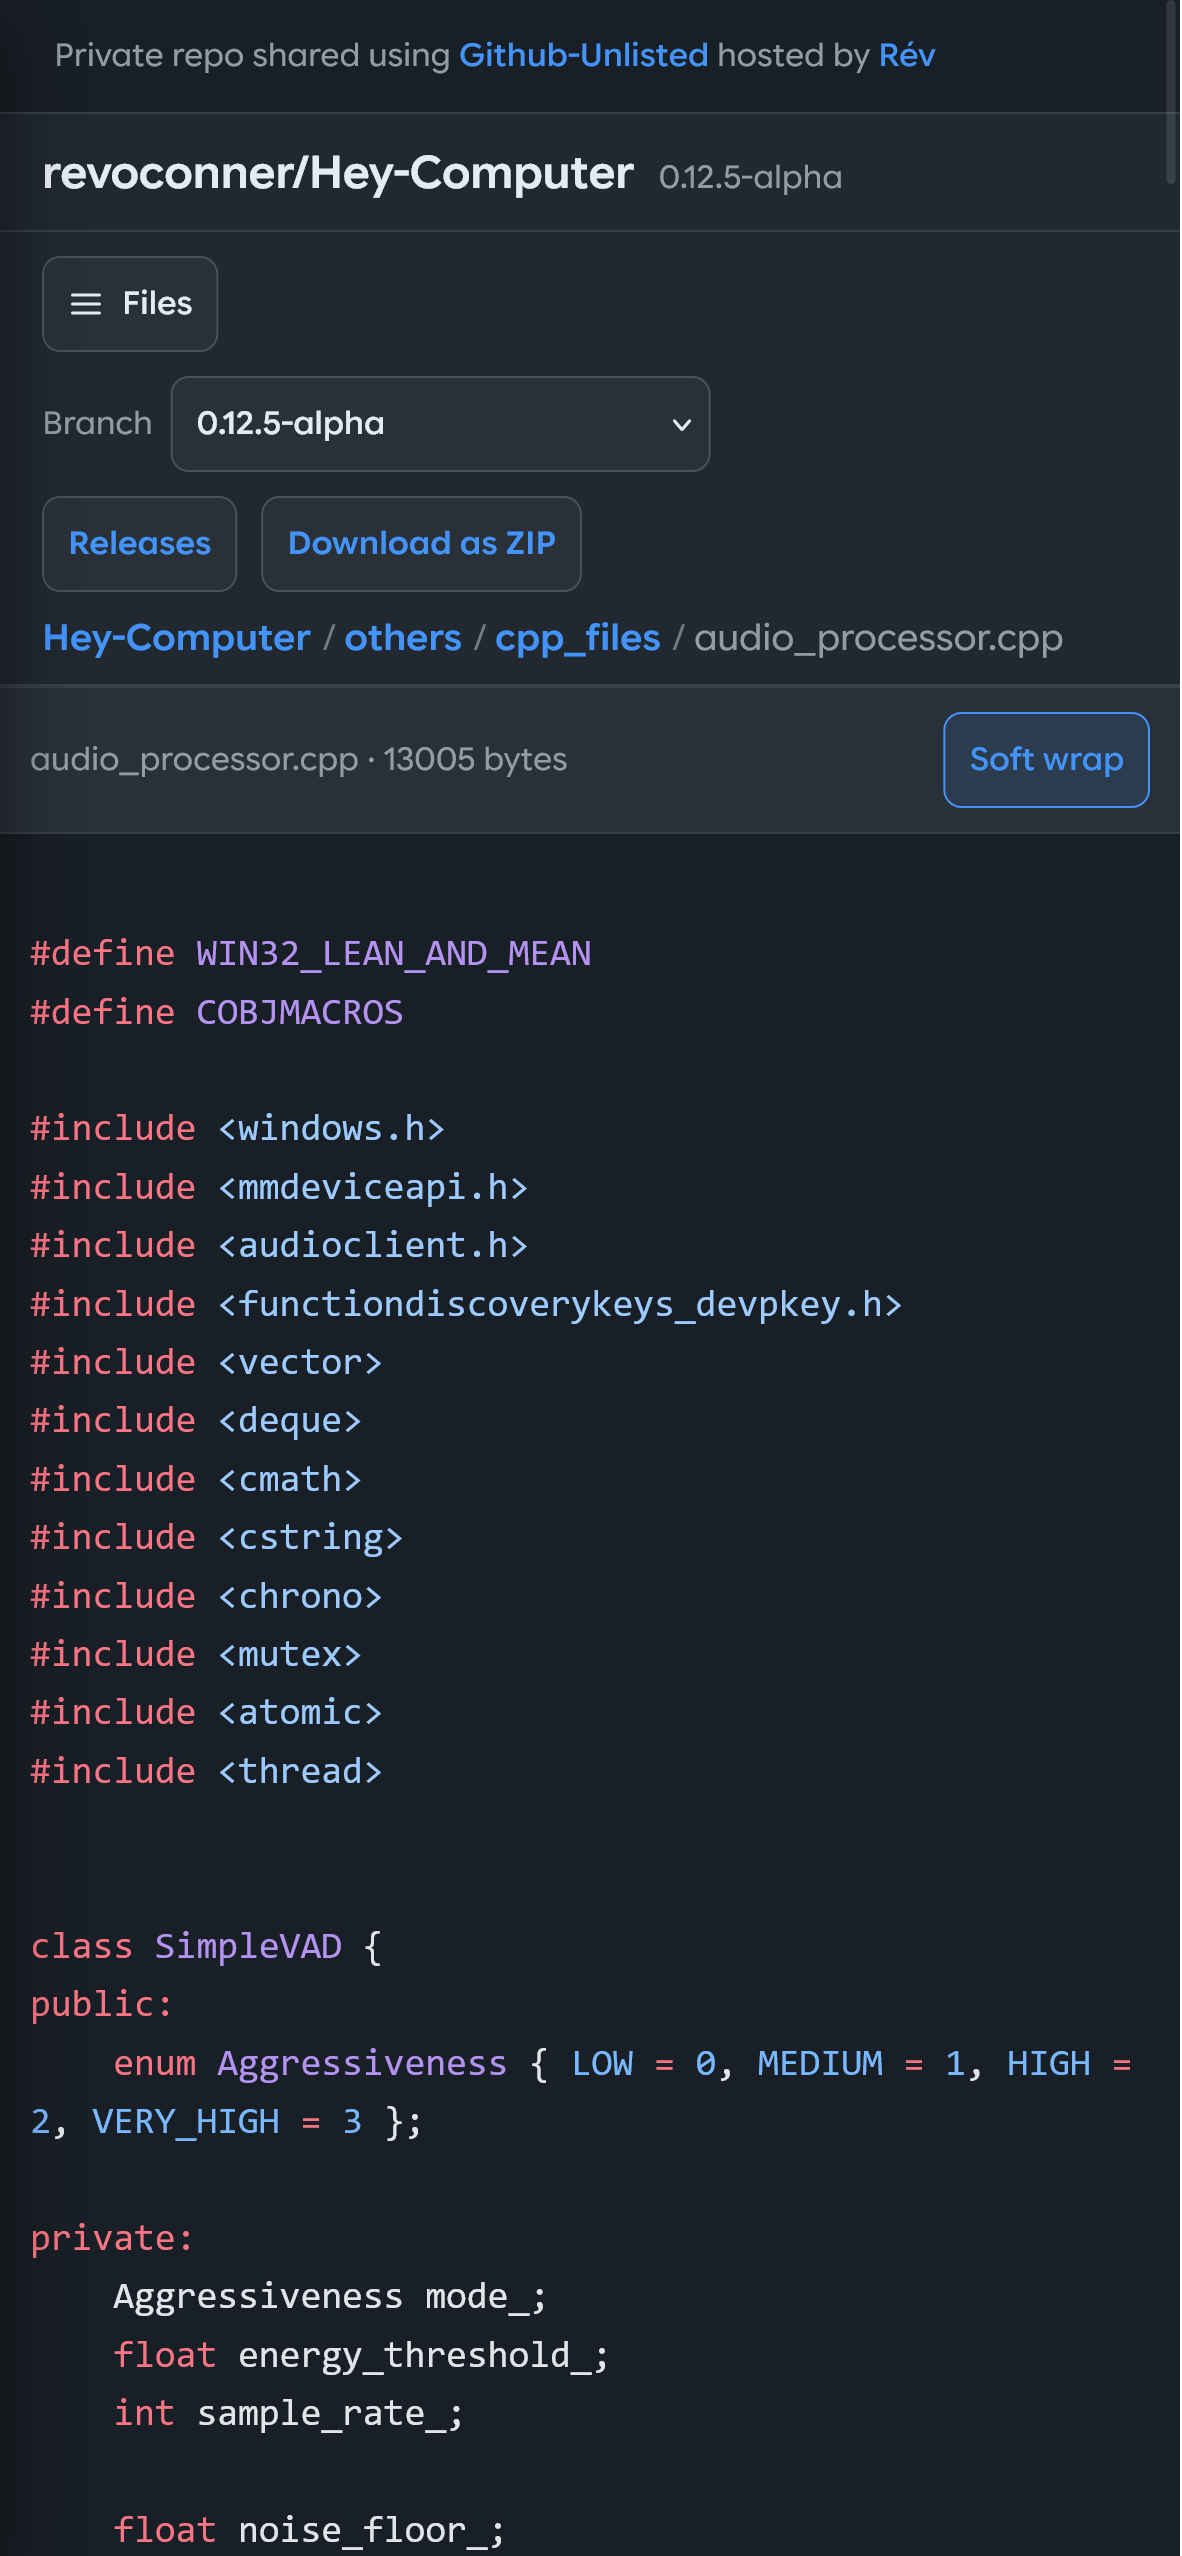
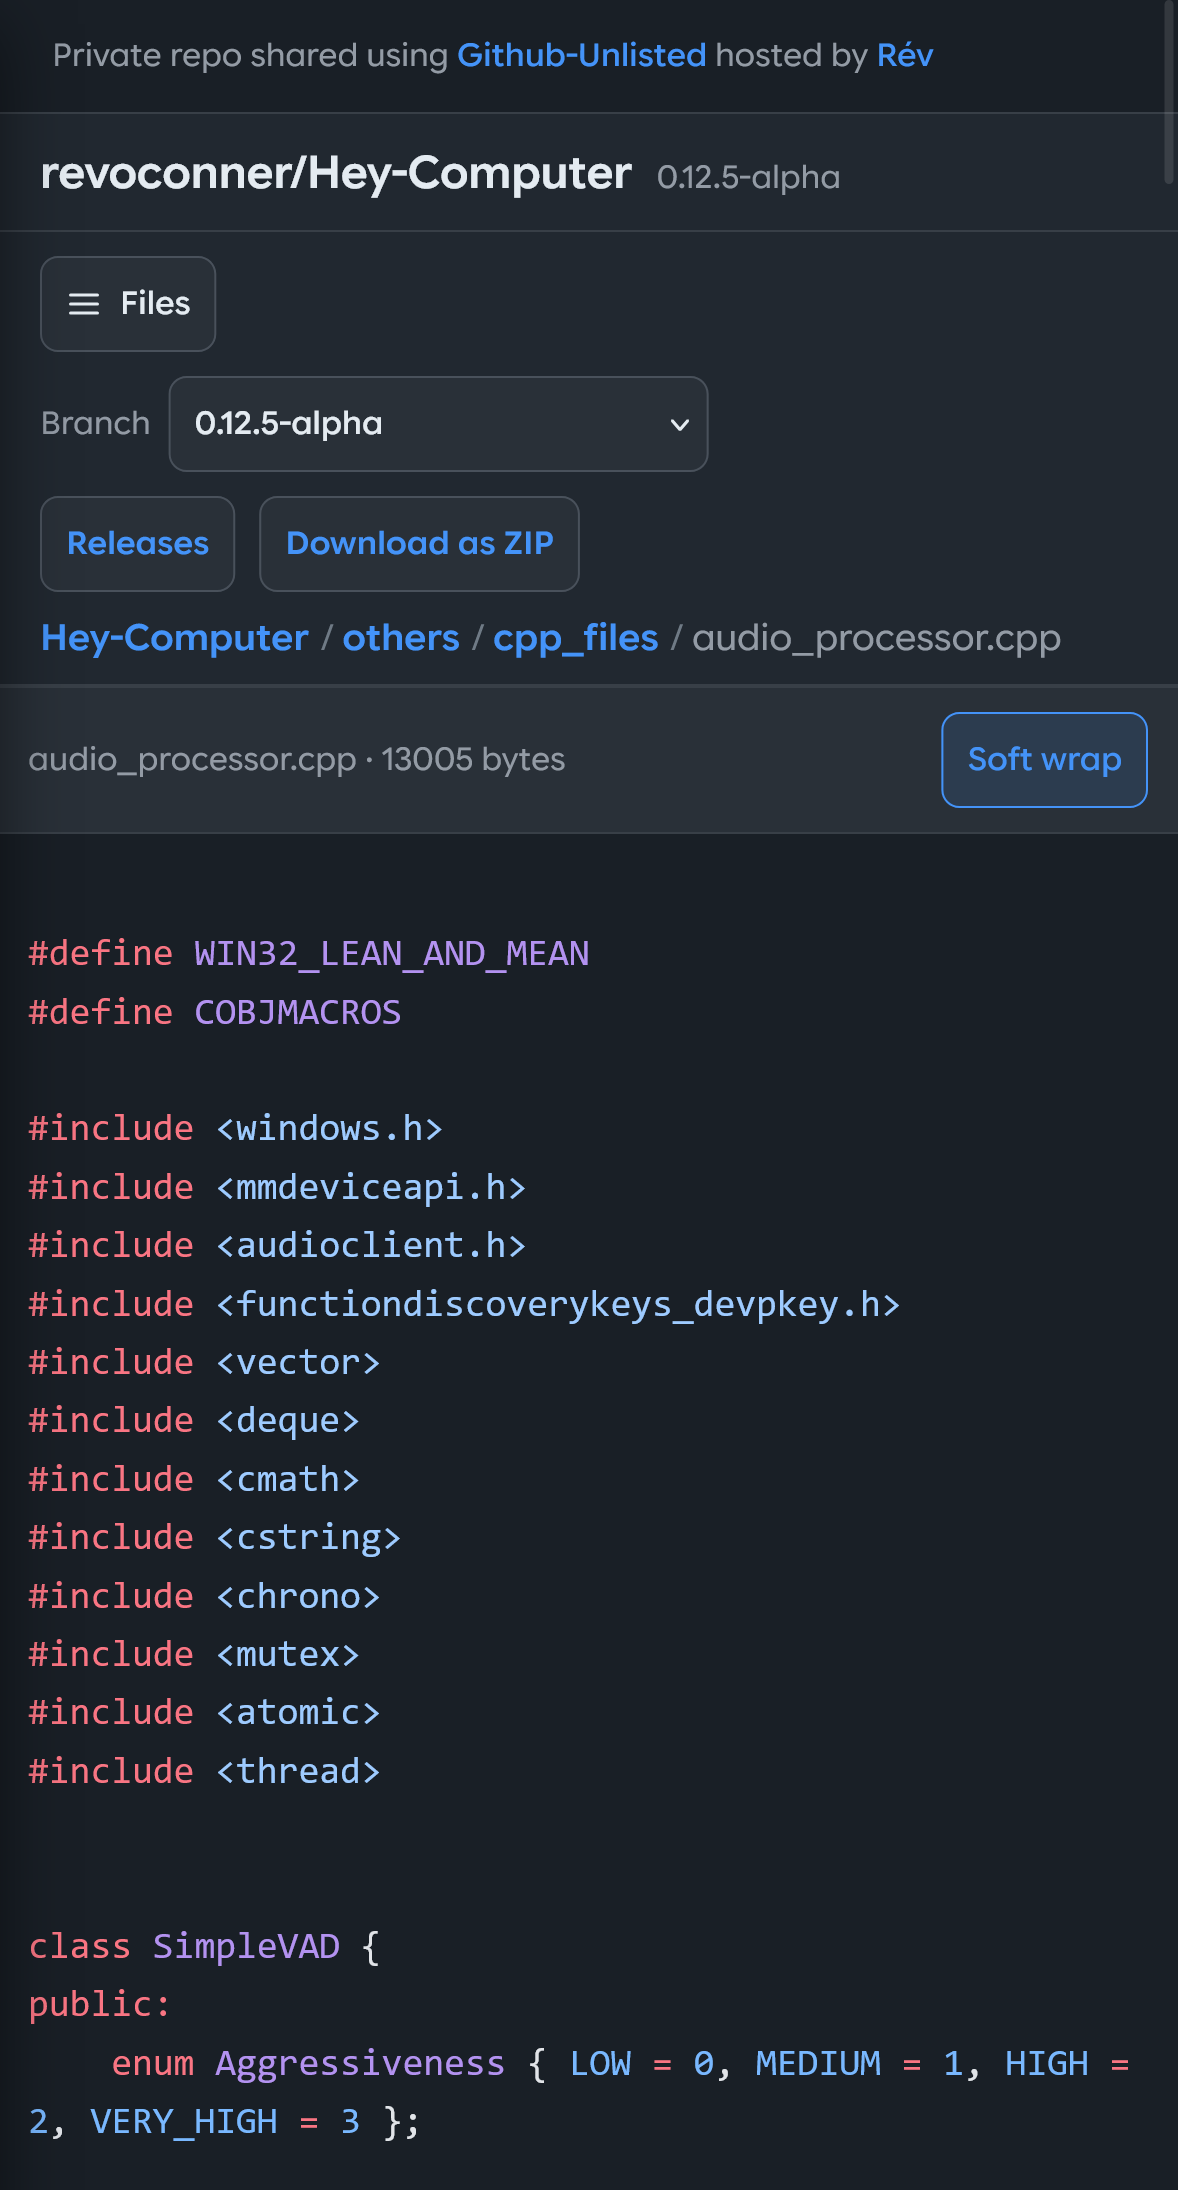
crazy font weight solution

diff --git a/src/styles/global.css b/src/styles/global.css
@@ -58,11 +58,11 @@
 	   and the hierarchy holds at every width. */
 	--fs-display: clamp(36px, 2.875vw + 22.2px, 59px);
 	--fs-h1: clamp(26px, 1.25vw + 20px, 36px);
-	--fs-h2: clamp(20px, 0.75vw + 16.4px, 26px);
-	--fs-h3: clamp(15px, 0.625vw + 12px, 20px);
-	--fs-body: clamp(14px, 0.625vw + 11px, 19px);
+	--fs-h2: clamp(22px, 0.75vw + 16.4px, 28px);
+	--fs-h3: clamp(18.5px, 0.625vw + 12px, 22px);
+	--fs-body: clamp(16px, 0.625vw + 11px, 19px);
 	--fs-ui: clamp(12px, 0.375vw + 10.2px, 15px);
-	--fs-caption: clamp(10.5px, 0.3125vw + 9px, 13px);
+	--fs-caption: clamp(12px, 0.3125vw + 9px, 13px);
 	--fs-btn: clamp(12px, 0.375vw + 10.2px, 15px);
 
 	/* Frosted chrome backdrop shared by the nav + footer. */
@@ -257,9 +257,9 @@ main {
 }
 .nav-links a,
 .nav-links .nav-contact {
-padding: 0.5rem 0rem;
-/* box-shadow: inset 0 0 1px 1px hsl(from var(--text-muted) h s l / 0.4); */
-background: var(--surface-2);
+	padding: 0.5rem 0rem;
+	/* box-shadow: inset 0 0 1px 1px hsl(from var(--text-muted) h s l / 0.4); */
+	background: var(--surface-2);
 	border-radius: 999px;
 	color: var(--text-2);
 	text-align: center;
@@ -544,7 +544,7 @@ background: var(--surface-2);
 	padding: 2px 8px;
 	border-radius: 5px;
 	font-family: var(--font-mono);
-	font-size: .75rem;
+	font-size: 0.75rem;
 	font-weight: 500;
 	white-space: nowrap;
 	border: 1px solid transparent;
@@ -748,7 +748,7 @@ background: var(--surface-2);
 	flex: 1;
 	display: grid;
 	place-items: center;
-	padding: clamp(22px, 4.75vw - 0.8px, 60px);
+	padding: clamp(22px, 4.75vw - 0.8px, 60px) clamp(10px, 4.5vw + 10.2px, 60px);
 	position: relative;
 	z-index: 2;
 	background: transparent;
@@ -759,12 +759,20 @@ background: var(--surface-2);
 }
 
 .hero__title {
+	/* Fluid variable-font weight: 440 at a 460px viewport up to 660 at
+	   1280px, linear in between (slope 220/820 per px). tan(atan2()) turns
+	   the viewport width into a unitless number so it can feed
+	   font-weight; the direct calc(100vw / 1px) division needs Chrome
+	   140 / Safari 18.2 typed arithmetic and Firefox lacks it, which
+	   left the whole declaration invalid and the weight at 400. */
+	--vw-n: tan(atan2(100vw, 1px));
+	--fluid-weight: calc(316.59 + 0.26829 * var(--vw-n));
+	font-weight: clamp(500, var(--fluid-weight), 660);
 	margin: 0;
 	font-family: var(--font-sans);
-	font-weight: 400;
 	font-size: var(--fs-display);
 	line-height: 1.05;
-	letter-spacing: 10.2px;
+	letter-spacing: clamp(0.325rem, calc(0.126rem + 0.662vw), 0.656rem);
 	color: var(--text);
 	text-wrap: balance;
 	text-shadow: var(--shadow-hero);
@@ -777,8 +785,32 @@ background: var(--surface-2);
 	font-size: var(--fs-body);
 	line-height: 1.6;
 	color: var(--text-muted);
-	text-wrap:  balance;
+	text-wrap: balance;
 	max-width: 920px;
+}
+
+/* Hero screenshot between the sub text and the CTA. One <picture>: the
+   phone capture serves at 480px and below, the desktop capture above.
+   Sizing stays fluid over the same 480-1280 window as everything else;
+   the 480px query only swaps the source and narrows the frame to suit
+   the portrait image. */
+.hero__shot {
+	display: block;
+	margin: clamp(24px, 2vw + 27.4px, 65px) auto;
+	width: 100%;
+	max-width: min(70vw, 1280px);
+}
+.hero__shot img {
+	width: 100%;
+	height: auto;
+	border: 1px solid var(--border);
+	border-radius: var(--radius-md);
+	box-shadow: var(--shadow-hero);
+}
+@media (max-width: 760px) {
+	.hero__shot {
+		max-width: min(300px, 65vw);
+	}
 }
 
 .bracket-word {
@@ -802,7 +834,6 @@ background: var(--surface-2);
 	flex-direction: column;
 	align-items: center;
 	gap: 14px;
-	padding: 0 0 clamp(40px, 3.75vw + 22px, 70px);
 }
 .hero-cta__row {
 	display: flex;
@@ -832,8 +863,6 @@ background: var(--surface-2);
 	width: 100%;
 	max-width: 880px;
 }
-
-
 
 .faq-title {
 	margin: 0 0 14px;
@@ -875,7 +904,7 @@ background: var(--surface-2);
 	width: 100%;
 	padding: 28px 8px;
 	display: grid;
-	grid-template-columns: .9fr .1fr;
+	grid-template-columns: 0.9fr 0.1fr;
 	align-items: center;
 	gap: 16px;
 	background: transparent;
@@ -884,8 +913,6 @@ background: var(--surface-2);
 	color: var(--text);
 	cursor: pointer;
 }
-
-
 
 .faq-q__text {
 	font-size: var(--fs-h2);
@@ -898,17 +925,20 @@ background: var(--surface-2);
 }
 
 .faq-q__icon {
-  width: 26px;
-  height: 26px;
-  border-radius: var(--radius-pill);
-  border: 1px solid var(--accent);
-  color: var(--bg);
-  display: inline-flex;
-  align-items: center;
-  justify-content: center;
-  justify-self: end;
-  transition: color 0.25s ease, background 0.25s ease, transform 0.25s ease;
-  background: var(--accent);
+	width: 26px;
+	height: 26px;
+	border-radius: var(--radius-pill);
+	border: 1px solid var(--accent);
+	color: var(--bg);
+	display: inline-flex;
+	align-items: center;
+	justify-content: center;
+	justify-self: end;
+	transition:
+		color 0.25s ease,
+		background 0.25s ease,
+		transform 0.25s ease;
+	background: var(--accent);
 }
 .faq-q__icon svg {
 	width: 12px;
@@ -940,15 +970,15 @@ background: var(--surface-2);
 	overflow: hidden;
 }
 .faq-a__body {
-  padding-left: 54px;
-  padding-right: 50px;
-  padding-bottom: 0;
-  color: var(--text-muted);
-  font-size: var(--fs-body);
-  line-height: 1.6;
-  text-wrap: balance;
-  transition: padding-bottom 0.3s ease;
-  font-weight: 350;
+	padding-left: 54px;
+	padding-right: 50px;
+	padding-bottom: 0;
+	color: var(--text-muted);
+	font-size: var(--fs-body);
+	line-height: 1.6;
+	text-wrap: balance;
+	transition: padding-bottom 0.3s ease;
+	font-weight: 350;
 }
 .faq-q[aria-expanded="true"] + .faq-a .faq-a__body {
 	padding-bottom: 30px;
@@ -1038,16 +1068,15 @@ background: var(--surface-2);
 	max-width: 1250px;
 }
 .status-eyebrow {
-  display: flex;
-  align-items: center;
-  gap: 14px;
-  font-family: var(--font-sans);
-  font-size: var(--fs-h2);
-  color: var(--text-3);
-  margin-bottom: 22px;
-  font-weight: 500;
+	display: flex;
+	align-items: center;
+	gap: 14px;
+	font-family: var(--font-sans);
+	font-size: var(--fs-h2);
+	color: var(--text-3);
+	margin-bottom: 22px;
+	font-weight: 500;
 }
-
 
 .status-title {
 	margin: 0 0 32px;
@@ -1121,11 +1150,11 @@ background: var(--surface-2);
 	border-bottom: 0;
 }
 .status-log-row__head {
-  display: flex;
-  flex-direction: column;
-  align-items: baseline;
-  gap: 12px;
-  flex-wrap: wrap;
+	display: flex;
+	flex-direction: column;
+	align-items: baseline;
+	gap: 12px;
+	flex-wrap: wrap;
 }
 .status-log-row__pills {
 	display: flex;
@@ -1134,11 +1163,11 @@ background: var(--surface-2);
 }
 
 .status-time {
-  font-family: var(--font-mono);
-  font-size: var(--fs-caption);
-  color: var(--text-3);
-  letter-spacing: 0.12em;
-  font-weight: bold;
+	font-family: var(--font-mono);
+	font-size: var(--fs-caption);
+	color: var(--text-3);
+	letter-spacing: 0.12em;
+	font-weight: bold;
 }
 
 .status-current-row__body,
@@ -1194,16 +1223,16 @@ background: var(--surface-2);
    indicator (the "open" glyph is U+2212 so it optically matches the
    plus, reproduced from the previous stylesheet). */
 .status-help-collapsible {
-  margin-top: 18px;
-  background: var(--surface);
-  padding: 20px;
-  border-radius: 12px;
+	margin-top: 18px;
+	background: var(--surface);
+	padding: 20px;
+	border-radius: 12px;
 }
 
 .status-help-collapsible summary {
 	font-family: var(--font-sans);
-  font-size: var(--fs-h3);
-  color: var(--text-3);
+	font-size: var(--fs-h3);
+	color: var(--text-3);
 	list-style: none;
 	cursor: pointer;
 	padding: 14px 4px;

diff --git a/src/app/page.tsx b/src/app/page.tsx
@@ -1,10 +1,29 @@
 import "@/styles/global.css";
+import { getImageProps } from "next/image";
 import { NavLinks } from "@/components/nav-links";
 import { SiteDrawer } from "@/components/site-drawer";
 import { SiteFooter } from "@/components/site-footer";
+import shotDesktop from "@/images/1080p.png";
+import shotMobile from "@/images/mobile.png";
 import { getSession } from "@/lib/session";
 
 export const dynamic = "force-dynamic";
+
+// Art-directed hero screenshot: one <picture> that serves the phone
+// capture at 480px and below and the desktop capture above it, so only
+// the matching file is downloaded (two <Image>s hidden by CSS would
+// fetch both).
+function HeroShot() {
+	const alt = "Screenshot of the Github-Unlisted app";
+	const mobile = getImageProps({ alt, src: shotMobile });
+	const desktop = getImageProps({ alt, src: shotDesktop, priority: true });
+	return (
+		<picture className="hero__shot">
+			<source media="(max-width: 760px)" srcSet={mobile.props.srcSet} />
+			<img {...desktop.props} alt={alt} />
+		</picture>
+	);
+}
 
 export default async function Page() {
 	const session = await getSession();
@@ -70,13 +89,15 @@ export default async function Page() {
 
 			<main className="hero">
 				<div className="hero__inner">
-					<h1 className="hero__title">Github-Unlisted</h1>
+					<h1 className="hero__title">Github Unlisted</h1>
 					<p className="hero__sub">
 						Share a private repo with a read-only link. No GitHub account needed
 						for the recipient. You retain all control. The service is free for
 						use and open source.
 					</p>
 				</div>
+
+				<HeroShot />
 
 				<div className="hero-cta">
 					<div className="hero-cta__row">

diff --git a/src/components/faq-accordion.tsx b/src/components/faq-accordion.tsx
@@ -57,12 +57,12 @@ const ITEMS: { q: string; a: React.ReactNode }[] = [
 		q: "What other projects have you made?",
 		a: (
 			<>
-				Most of my work relates to computer graphics, which you can read about on{" "}
+				Most of my work relates to computer graphics, which you can read about
+				on{" "}
 				<a href="https://www.revoconner.com" target="_blank" rel="noopener">
 					www.revoconner.com
 				</a>
-				. <br />
-				I also host another website for a photo recognition offline app {" "}
+				. <br />I also host another website for a photo recognition offline app{" "}
 				<a href="https://felicity-app.com" target="_blank" rel="noopener">
 					felicity-app.com
 				</a>
@@ -73,7 +73,6 @@ const ITEMS: { q: string; a: React.ReactNode }[] = [
 
 export function FaqAccordion() {
 	const [open, setOpen] = React.useState(0);
-	const total = `/0${ITEMS.length}`;
 
 	return (
 		<ul className="faq-list">
@@ -91,7 +90,6 @@ export function FaqAccordion() {
 							id={qId}
 							onClick={() => setOpen(isOpen ? -1 : i)}
 						>
-
 							<span className="faq-q__text">{item.q}</span>
 							<span className="faq-q__icon" aria-hidden="true">
 								<svg
